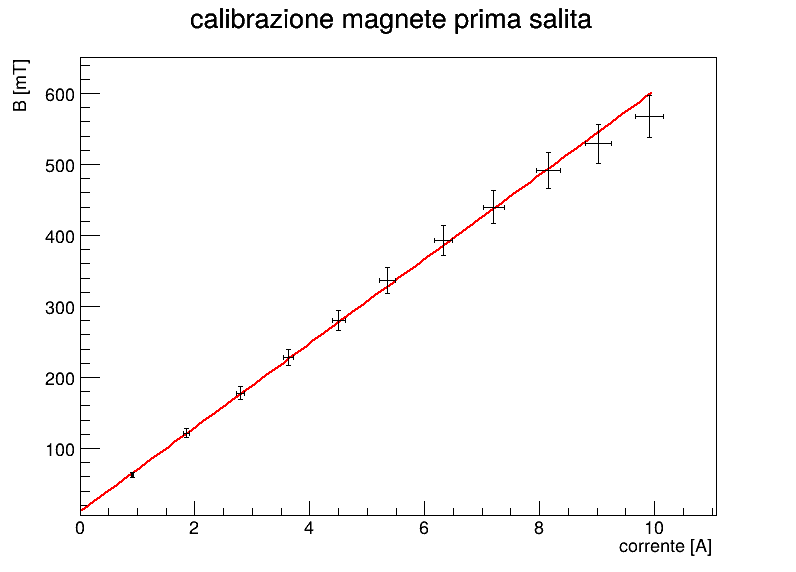
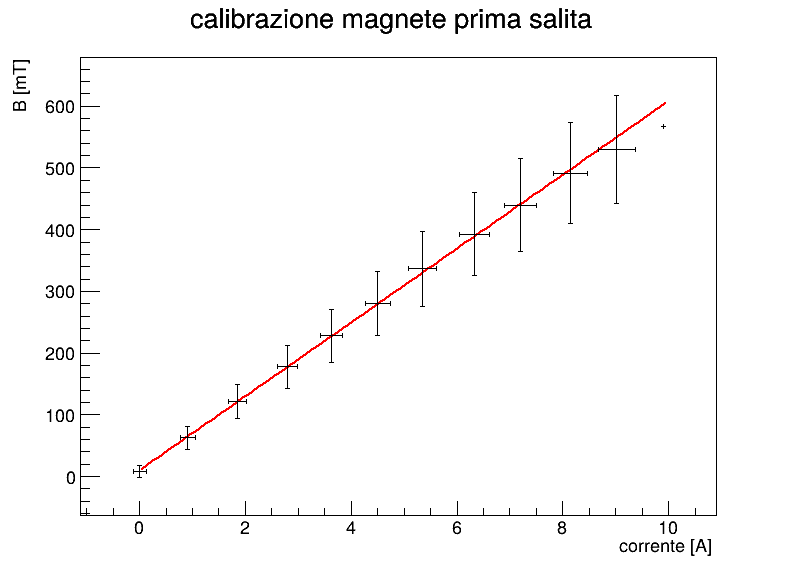
fit lineari conclusi

diff --git a/LAB_struttura/calibrazione_magnete.C b/LAB_struttura/calibrazione_magnete.C
@@ -24,7 +24,7 @@ void calibrazione_magnete(){
         9.91
     };
     vector<double> B={
-        8.7
+        8.7,
         62.91,
         121.42,
         178.03,
@@ -40,33 +40,31 @@ void calibrazione_magnete(){
     //
     //errori
     vector<double> err_corrente={
-        0.000001,
-       0.02275,
-        0.04625,
-        0.07,
-        0.09075,
-        0.1125,
-        0.13375,
-        0.15825,
-        0.18,
-        0.20375,
-        0.2255,
-        0.24775,
+        0.12275,
+        0.14625,
+        0.17,
+        0.19075,
+        0.2125,
+        0.23375,
+        0.25825,
+        0.28,
+        0.30375,
+        0.3255,
+        0.34775,
     };
     vector<double> err_B={
-        0.54,
-     3.2455,
-        6.171,
-        9.0015,
-        11.498,
-        14.094,
-        17.835,
-        20.64,
-        22.99,
-        25.57,
-        27.475,
-        29.37,
-            };
+      9.69248197270152,
+        18.7070602626835,
+        27.4289074169457,
+        35.1215735256245,
+        43.1208369817152,
+        51.8750386299253,
+        60.5183105845996,
+        67.7595544681947,
+        75.7095158382694,
+        81.5795454545455,
+        87.4187612670616,
+     };
 
     //
     int len= corrente.size();

diff --git a/LAB_struttura/calibrazione_magnete_prima_discesa.C b/LAB_struttura/calibrazione_magnete_prima_discesa.C
@@ -40,32 +40,32 @@ void calibrazione_magnete_prima_discesa(){
     //
     //errori
     vector<double> err_corrente={
-        0.000001,
-        0.24825,
-        0.224,
-        0.20275,
-        0.18175,
-        0.15825,
-        0.136,
-        0.115,
-        0.08975,
-        0.0675,
-        0.043,
-        0.0235,
+        0.1,
+        0.34825,
+        0.324,
+        0.30275,
+        0.28175,
+        0.25825,
+        0.236,
+        0.215,
+        0.18975,
+        0.1675,
+        0.143,
+        0.1235,
     };
     vector<double> err_B={
-        0.54,
-        29.29,
-        27.485,
-        25.395,
-        23.05,
-        20.74,
-        18.18,
-        14.77,
-        11.71,
-        9.125,
-        6.075,
-        3.64,
+        1.35580736543909,
+        87.1722508369817,
+        81.6103592583055,
+        75.1702742724698,
+        67.9444372907546,
+        60.8264486221994,
+        52.9381148596446,
+        45.2038501158898,
+        35.7748261653361,
+        27.8094578933814,
+        18.4112477465877,
+        10.9080865310327,
             };
 
     //

diff --git a/LAB_struttura/calibrazione_magnete_seconda_salita.C b/LAB_struttura/calibrazione_magnete_seconda_salita.C
@@ -40,7 +40,7 @@ void calibrazione_magnete_seconda_salita(){
     //
     //errori
     vector<double> err_corrente={
-        0.1,
+      0.1,
         0.12125,
         0.1465,
         0.169,
@@ -51,21 +51,21 @@ void calibrazione_magnete_seconda_salita(){
         0.2865,
         0.305,
         0.32725,
-        0.347,
+        0.347,  
     };
     vector<double> err_B={
-      0.535,
-        3.16,
-        6.185,
-        8.94,
-        11.15,
-        14.375,
-        17.725,
-        20.965,
-        23.715,
-        25.725,
-        27.62,
-        29.245,
+      1.3404004635591,
+        9.4290239505537,
+        18.7501995879475,
+        27.2394025238218,
+        34.0492531547773,
+        43.9867048673706,
+        51.5360867885656,
+        61.5197592067989,
+        69.9935552407932,
+        76.1871297965491,
+        82.0263456090652,
+        87.0335887200618,
             };
 
     //

diff --git a/LAB_struttura/calibrazione_magnete_seconda_discesa.C b/LAB_struttura/calibrazione_magnete_seconda_discesa.C
@@ -59,18 +59,18 @@ void calibrazione_magnete_seconda_discesa(){
         0.1,
     };
     vector<double> err_B={
-        28.725,
-        27.85,
-        25.245,
-        23.235,
-        20.95,
-        18.43,
-        14.73,
-        12.29,
-        8.935,
-        6.1,
-        3.37,
-        0.545,
+        85.4312709245429,
+        82.7350630955447,
+        74.7080672160701,
+        68.5144926603142,
+        61.4735385011589,
+        53.7084599536441,
+        45.0805949008499,
+        37.5620267834149,
+        27.2239956219418,
+        18.4882822559876,
+        10.0761138295133,
+        1.37121426731908,
             };
 
     //
